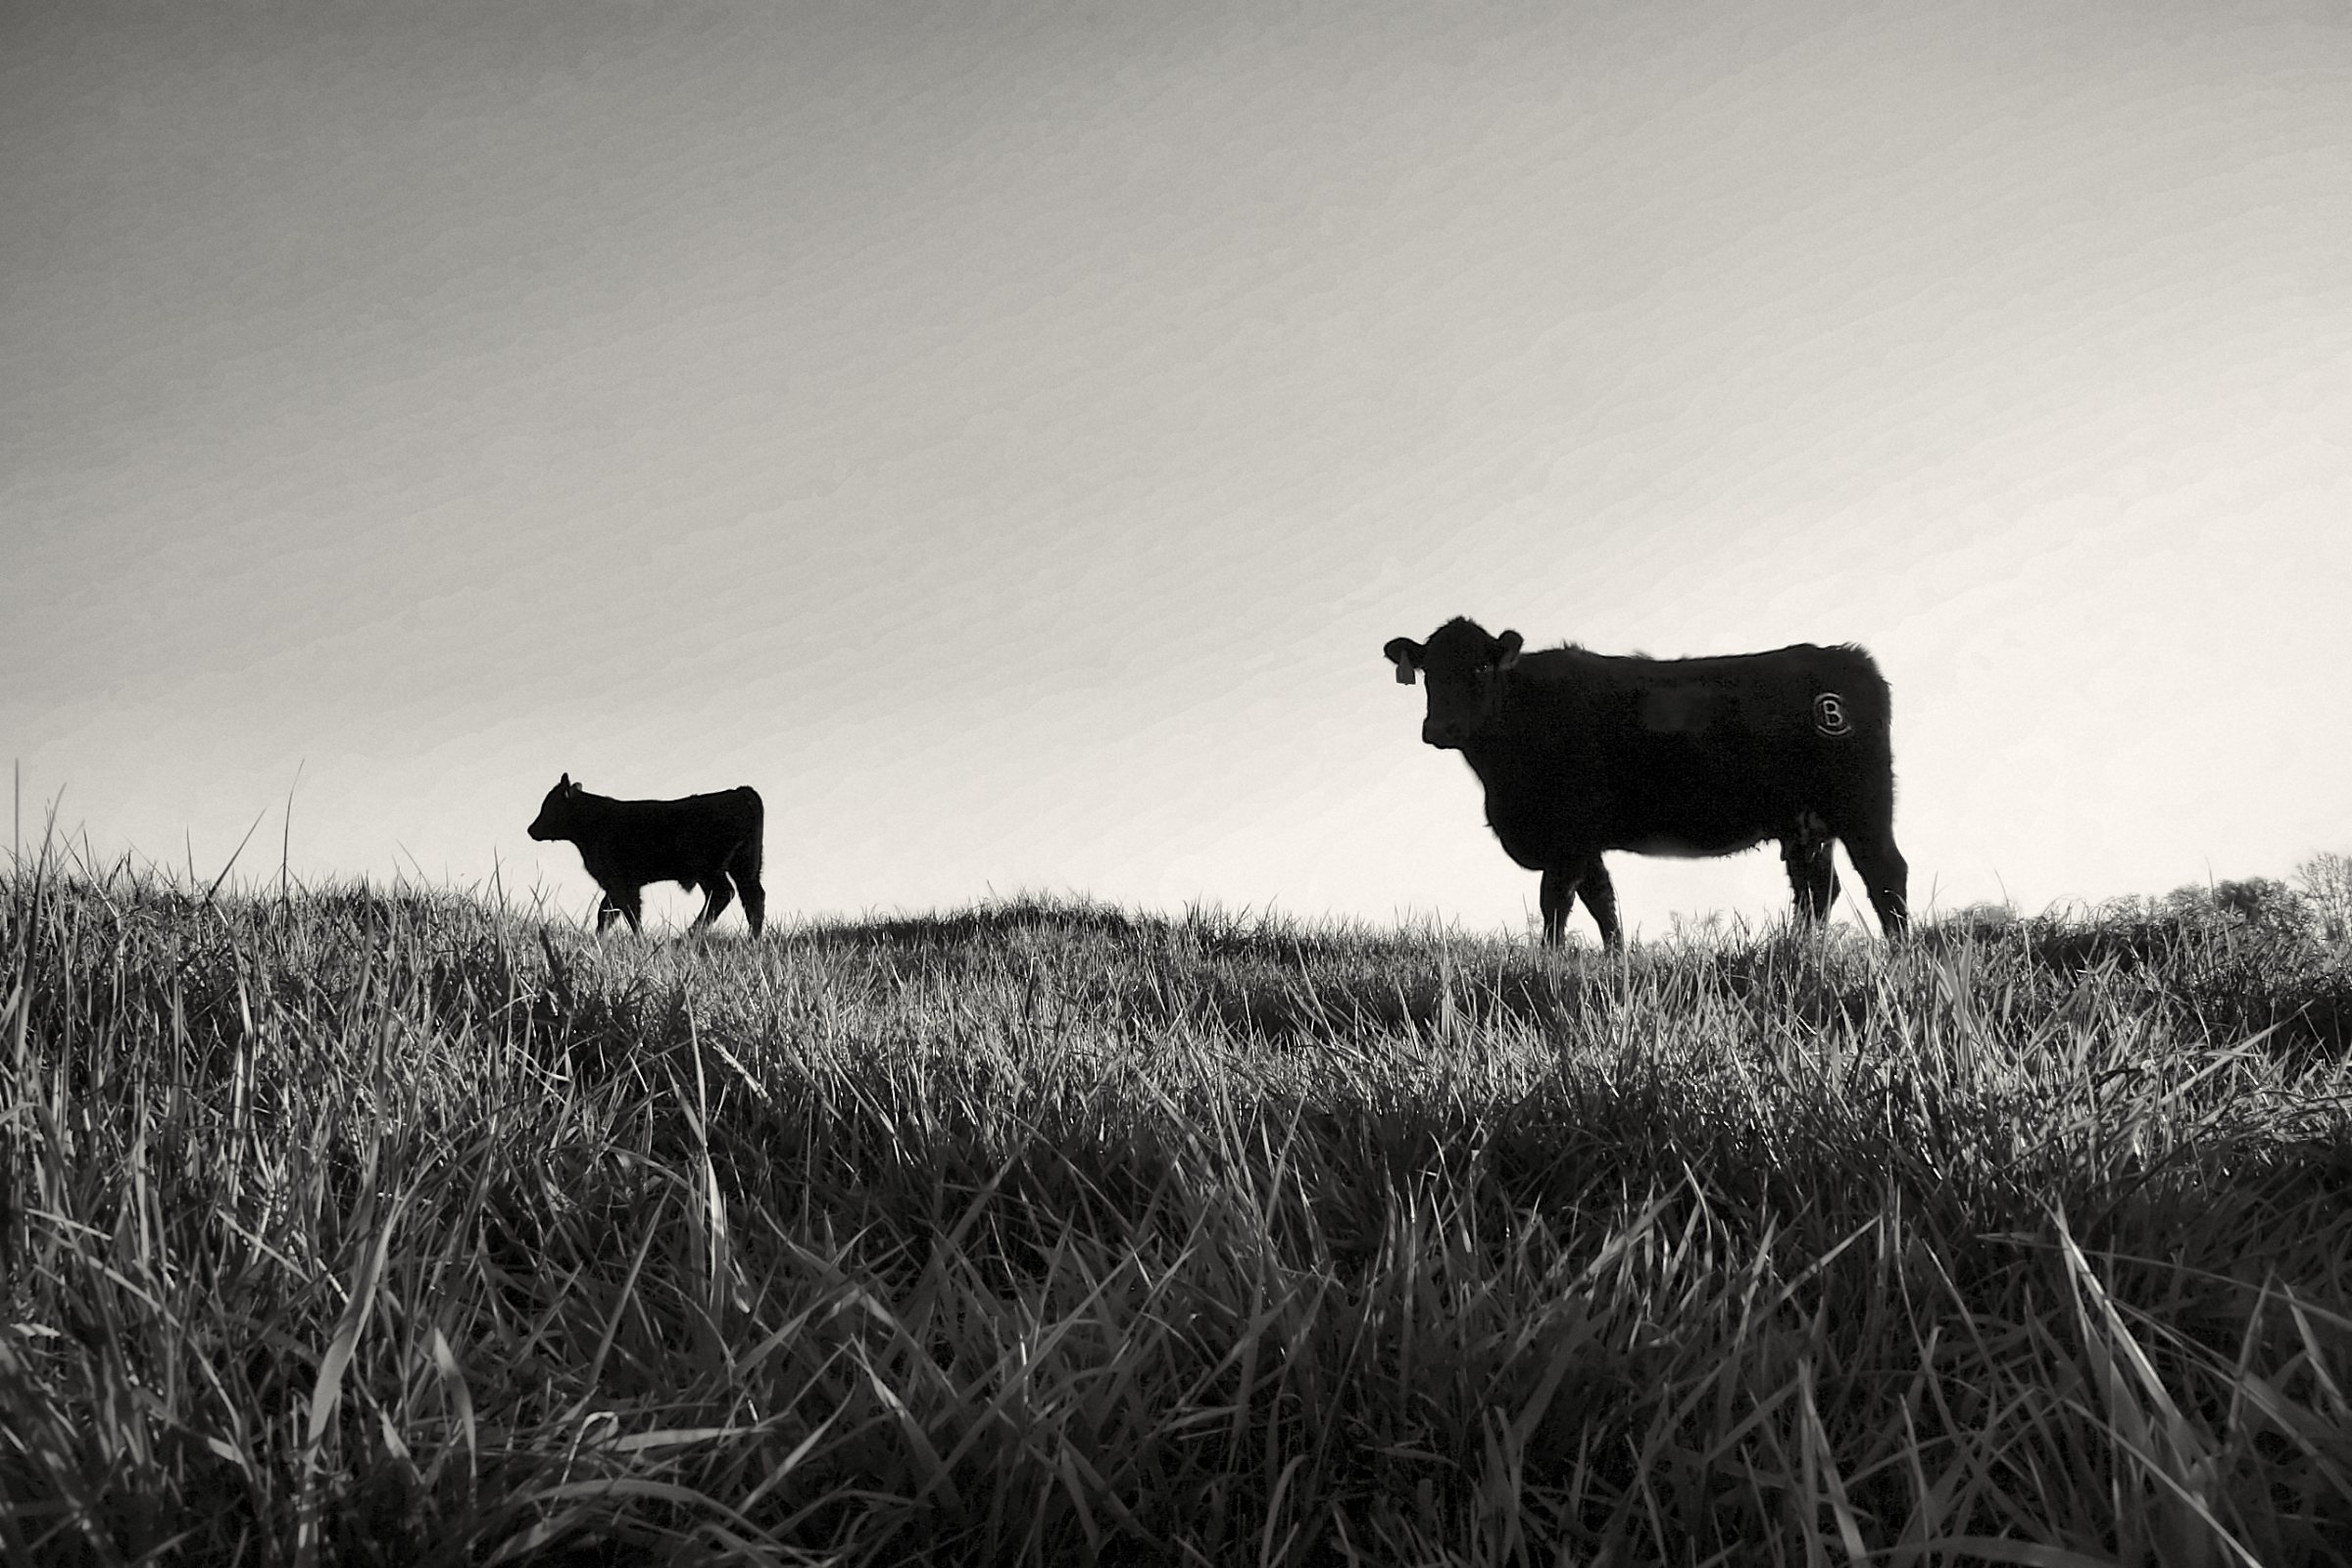
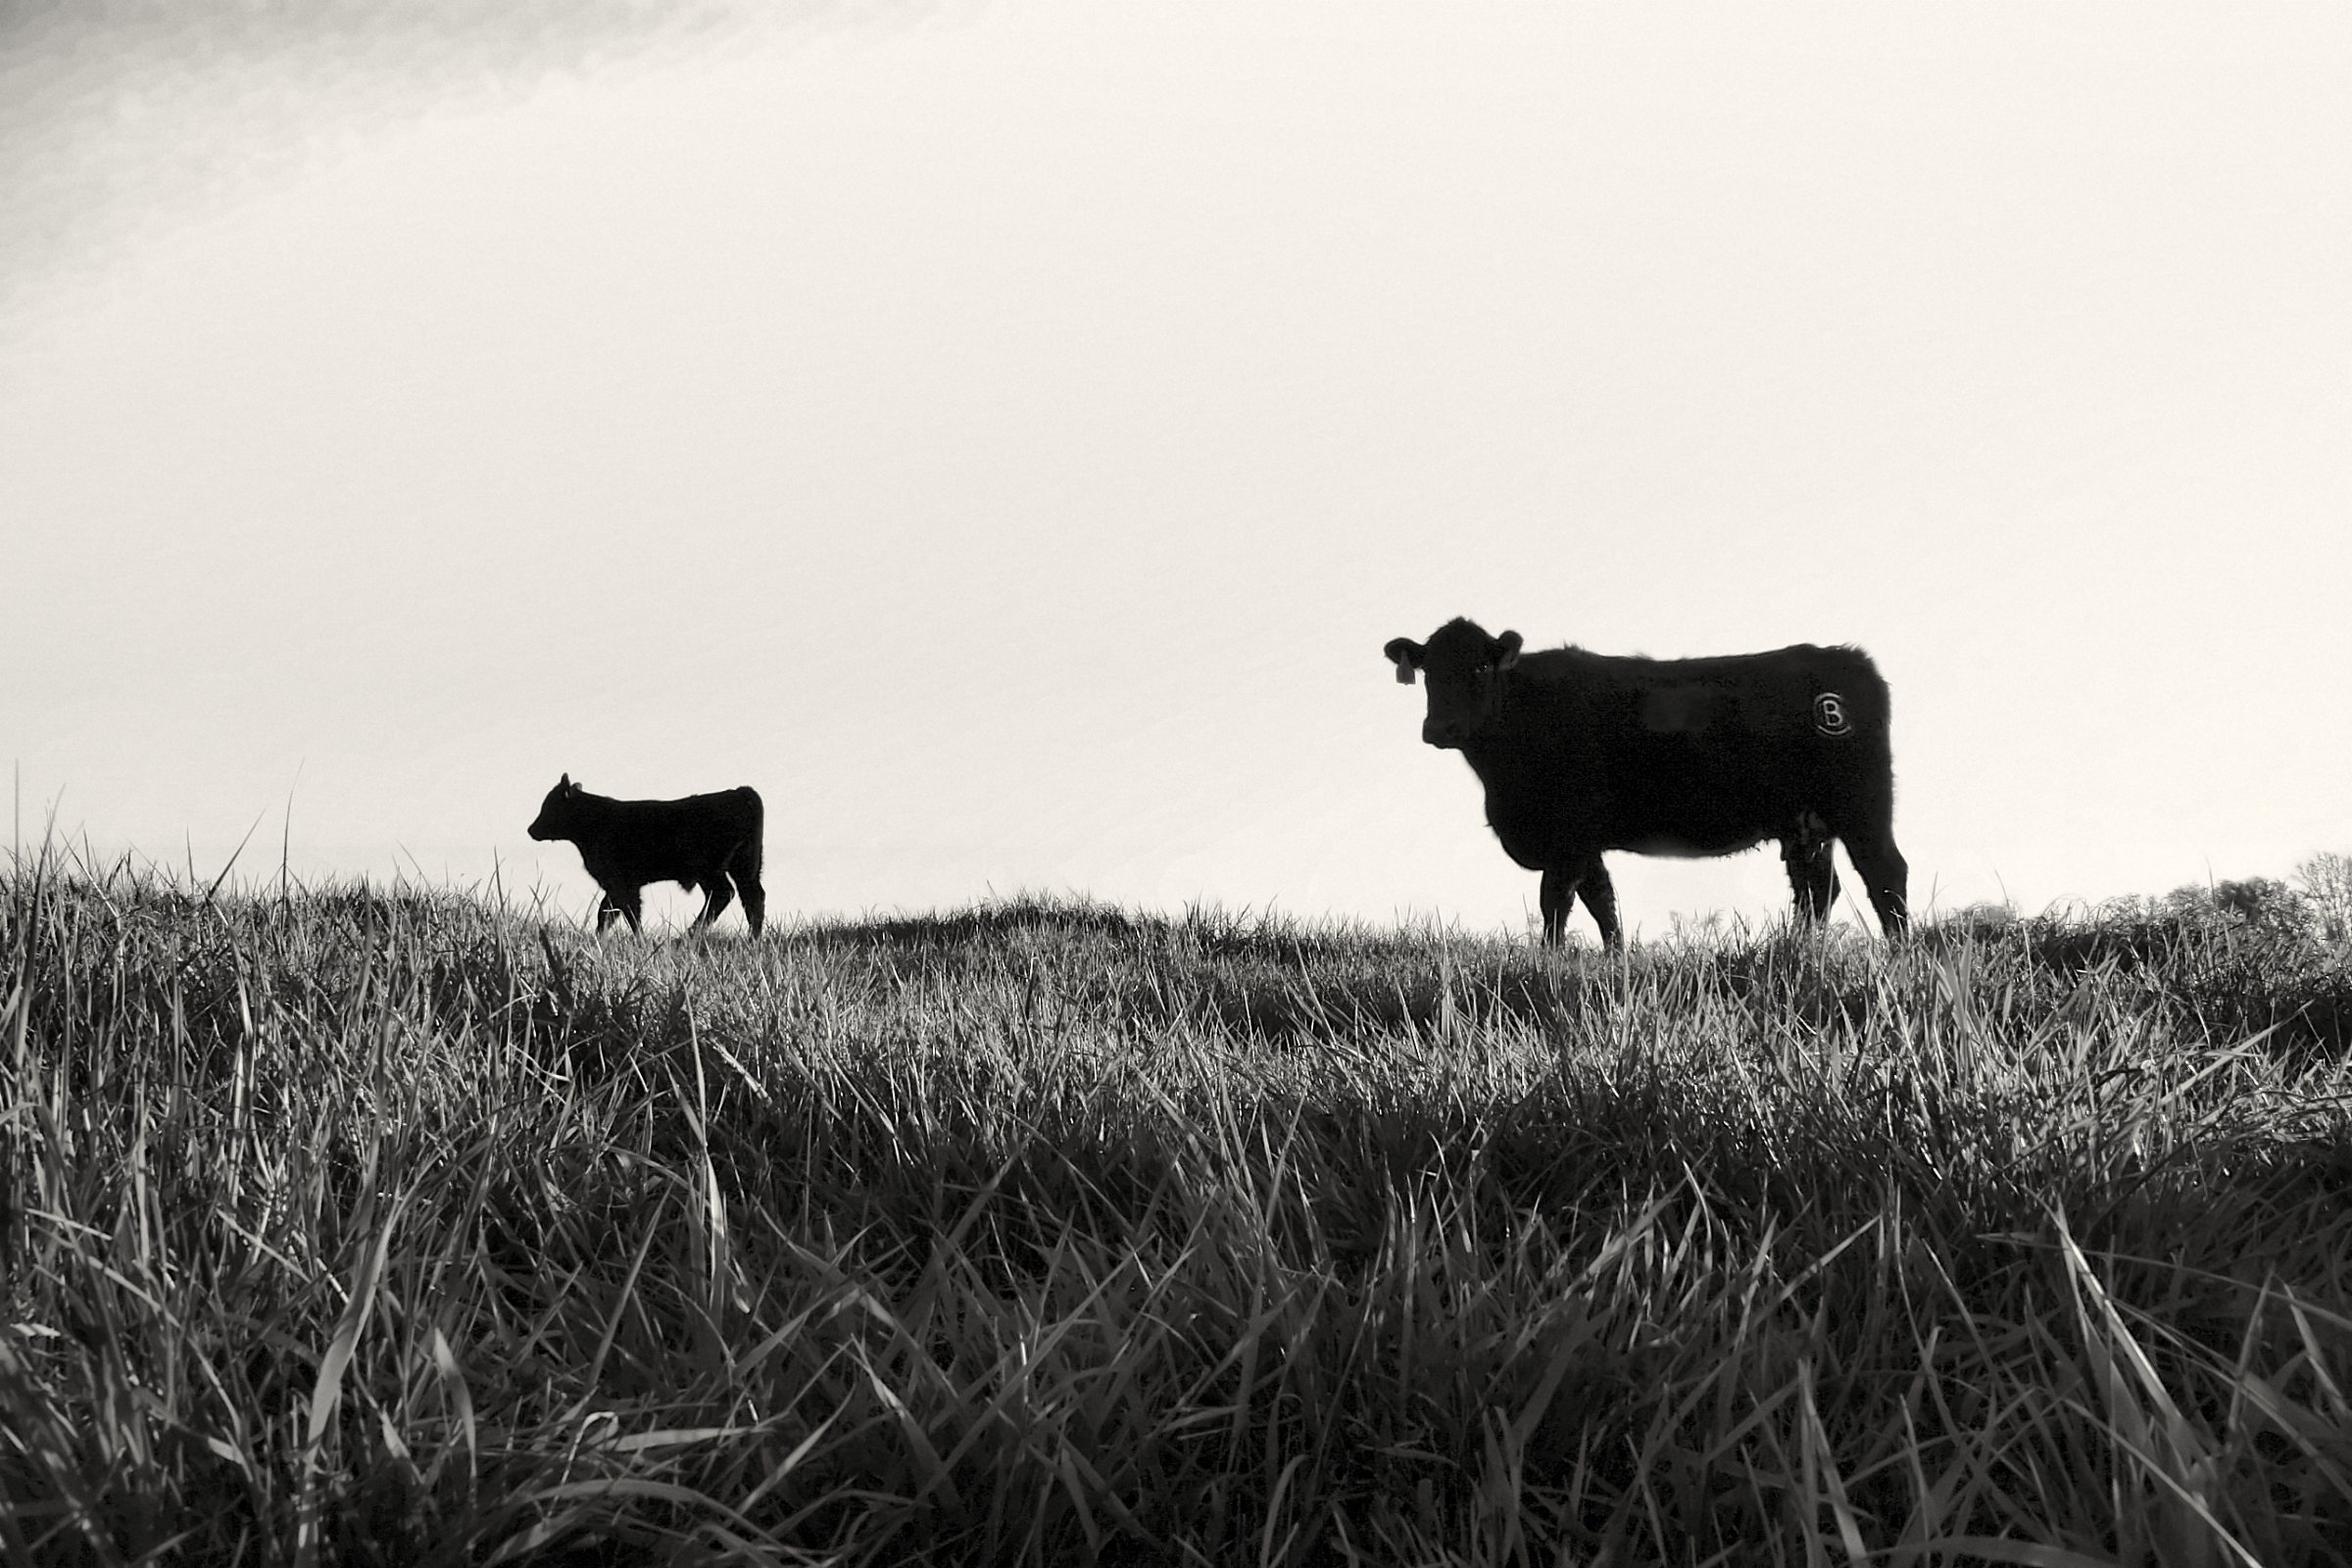
Hero: fade photo top into page, lift sky to page tone; fix mobile meta line
Claude-Session: https://claude.ai/code/session_01HcBjcp3yL2kzz4KUAjLibJ

diff --git a/public/styles.css b/public/styles.css
@@ -72,9 +72,16 @@ p { margin: 0 0 1.1em; }
 .hero-name { font-size: clamp(44px, 6vw, 80px); font-weight: 600; letter-spacing: .08em; text-transform: uppercase; margin: 0 0 18px; }
 .hero-meta { font: 500 13px/1 var(--sans); letter-spacing: .28em; text-transform: uppercase; color: var(--ink-soft); margin: 0; }
 .hero-meta span { color: var(--accent); margin: 0 .6em; }
+.hero-meta b { font-weight: 500; white-space: nowrap; }
 .hero-lede { font-size: 19px; color: var(--ink-soft); max-width: 520px; margin: 0 auto 36px; }
 .hero-actions { display: flex; justify-content: center; align-items: center; gap: 30px; flex-wrap: wrap; }
 .hero-photo img { width: 100%; height: clamp(360px, 62vw, 760px); object-fit: cover; object-position: 50% 62%; }
+.hero-photo { position: relative; display: block; margin-top: clamp(-120px, -8vw, -40px); }
+.hero-photo::before { content: ""; position: absolute; inset: 0 0 auto 0; height: 62%; pointer-events: none;
+  background: linear-gradient(to bottom,
+    var(--paper) 0%, rgba(250,247,241,.96) 14%, rgba(250,247,241,.82) 30%,
+    rgba(250,247,241,.55) 50%, rgba(250,247,241,.25) 72%, rgba(250,247,241,0) 100%); }
+.hero-content { position: relative; z-index: 1; }
 
 /* ---------- Sections ---------- */
 .section { padding: var(--section) 0; }
@@ -175,6 +182,7 @@ p { margin: 0 0 1.1em; }
   .nav-toggle[aria-expanded="true"] span:nth-of-type(2) { transform: translateY(3.75px) rotate(45deg); }
   .nav-toggle[aria-expanded="true"] span:nth-of-type(3) { transform: translateY(-3.75px) rotate(-45deg); }
   .hero-photo img { height: 300px; object-position: 70% 60%; }
+  .hero-meta { font-size: 11px; letter-spacing: .18em; line-height: 1.8; }
   .hero-lede { font-size: 17px; }
   .field-row { grid-template-columns: 1fr; }
   .gallery { grid-template-columns: 1fr; gap: 8px; }

diff --git a/public/index.html b/public/index.html
@@ -68,7 +68,7 @@
       <div class="wrap hero-content">
         <svg class="hero-mark" role="img" aria-label="The Balvanz family brand"><use href="#brand"/></svg>
         <h1 class="hero-name">Balvanz Cattle</h1>
-        <p class="hero-meta">Since 1886 <span>·</span> Iowa <span>·</span> BQA Certified</p>
+        <p class="hero-meta"><b>Since 1886</b><span>·</span><b>Iowa</b><span>·</span><b>BQA Certified</b></p>
       </div>
       <picture class="hero-photo">
         <source media="(max-width: 800px)" srcset="/images/hero-sm.jpg">
